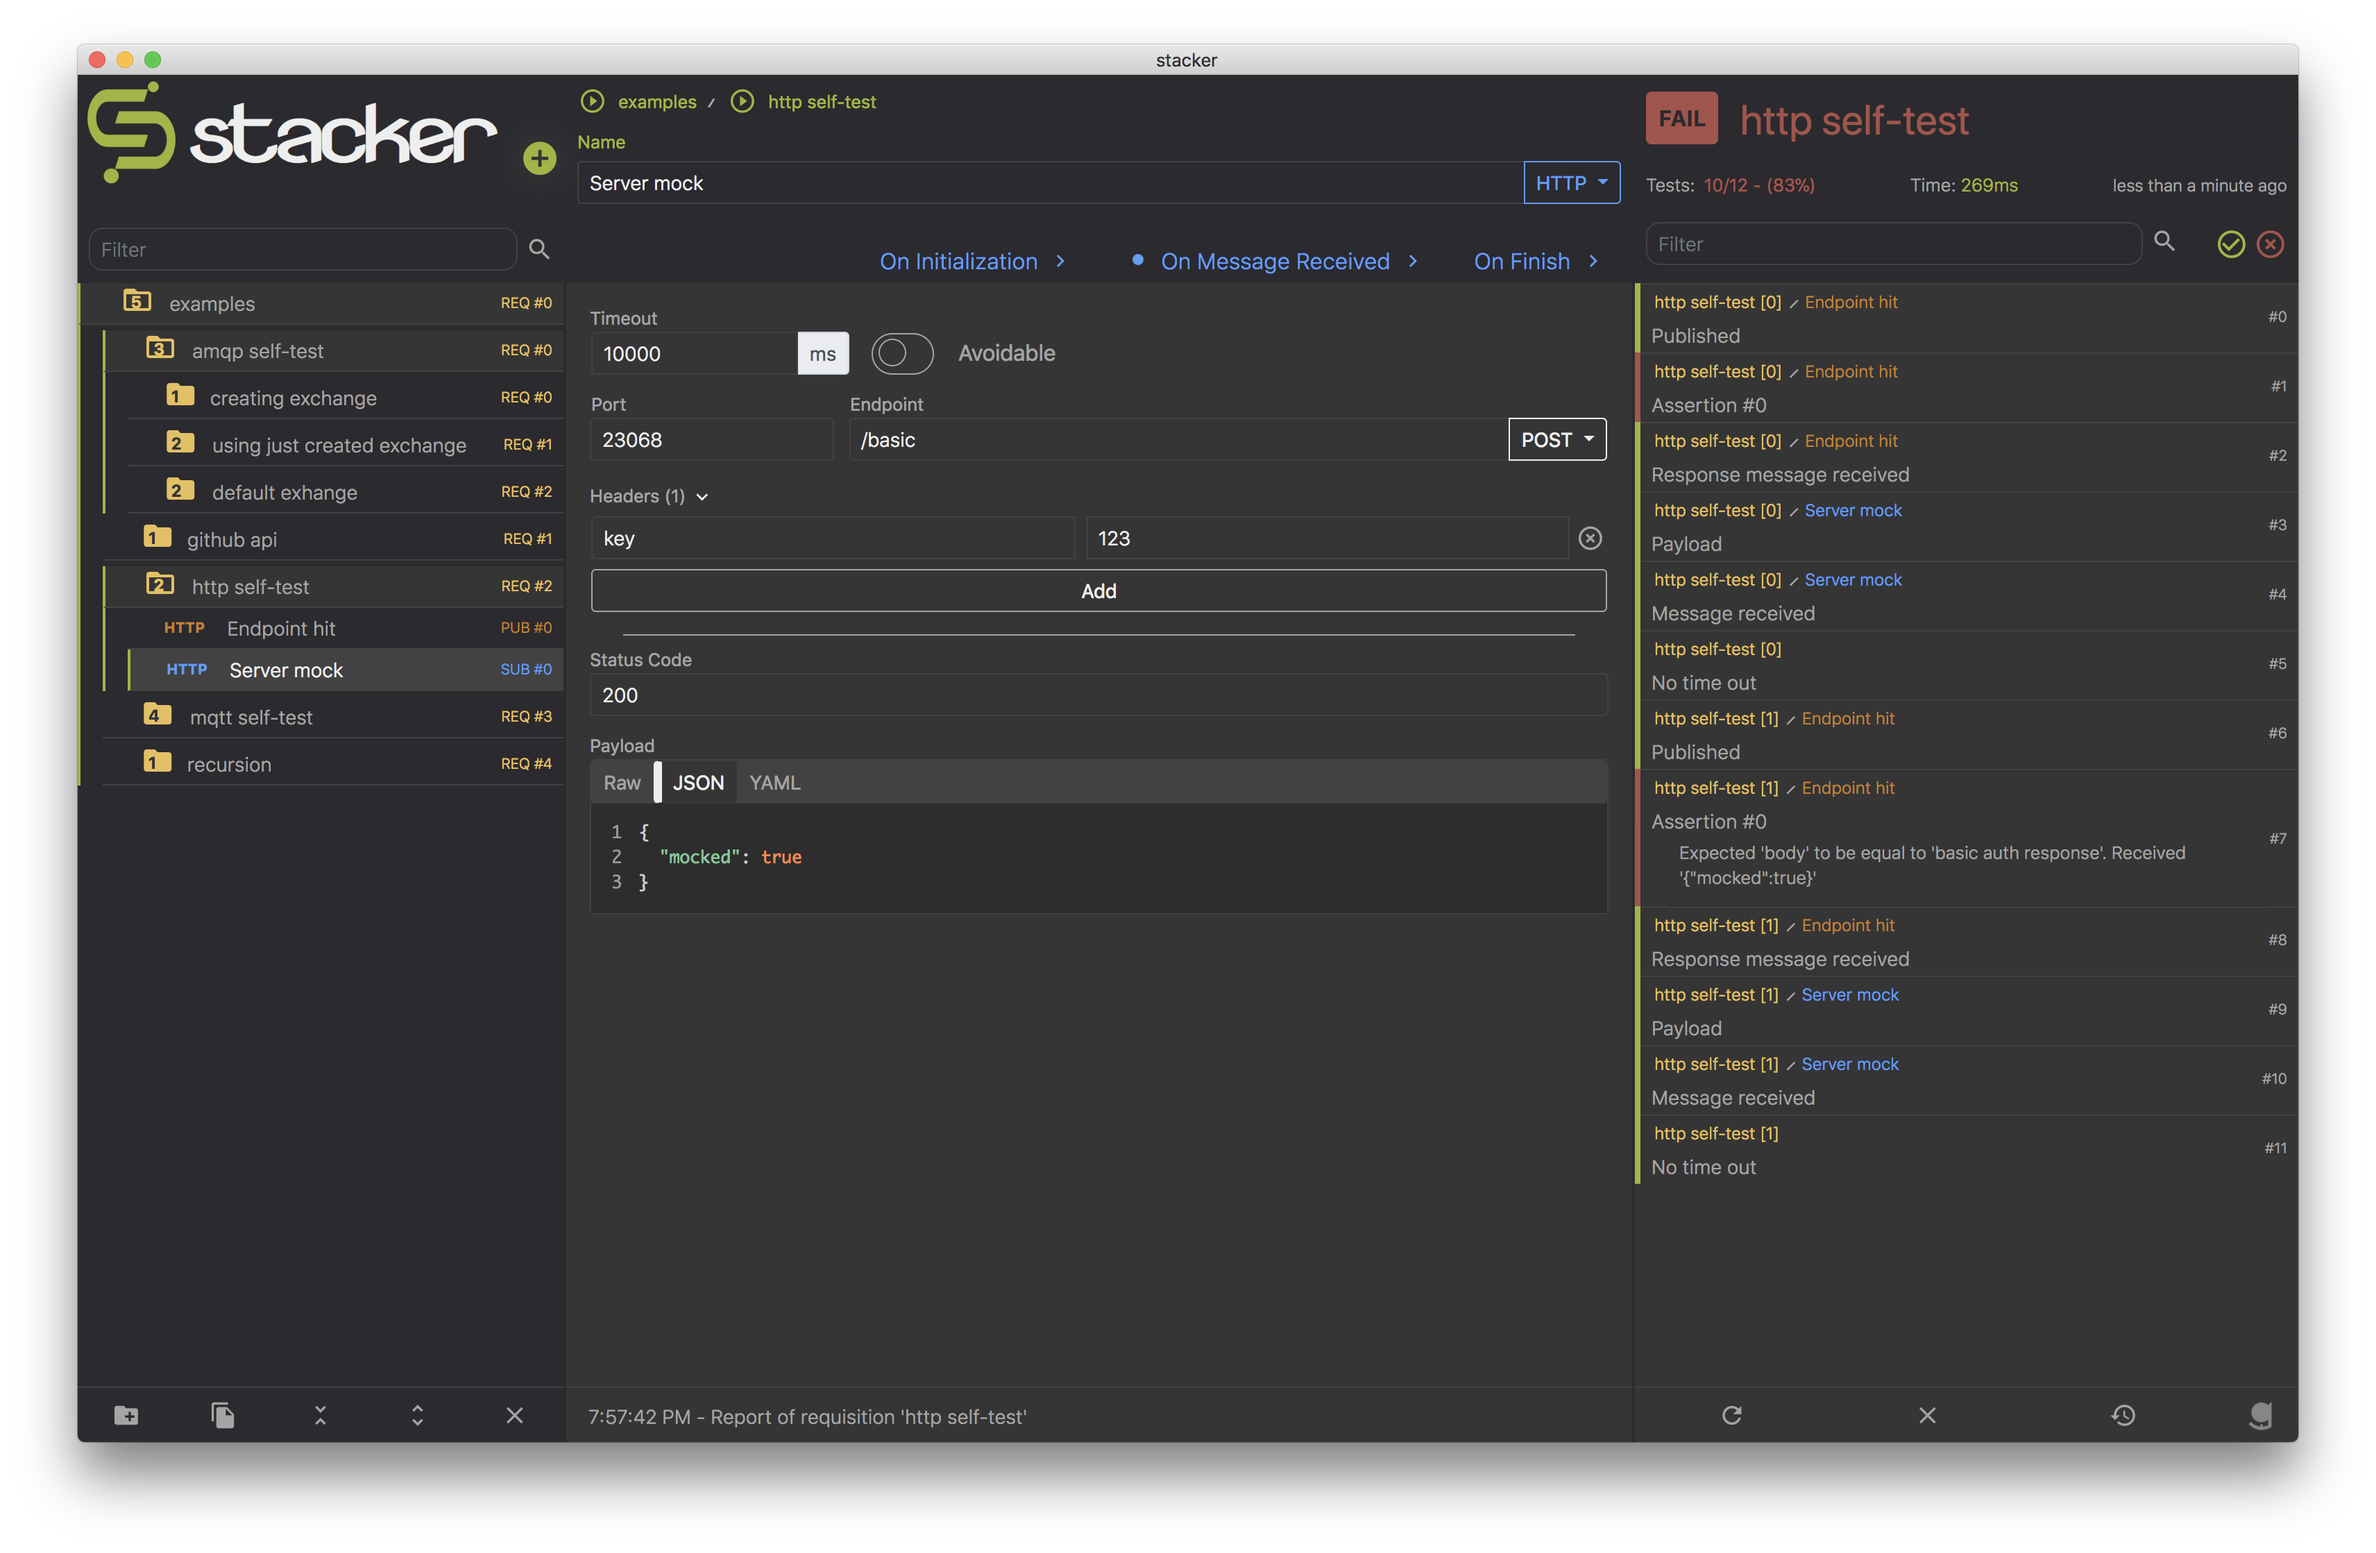
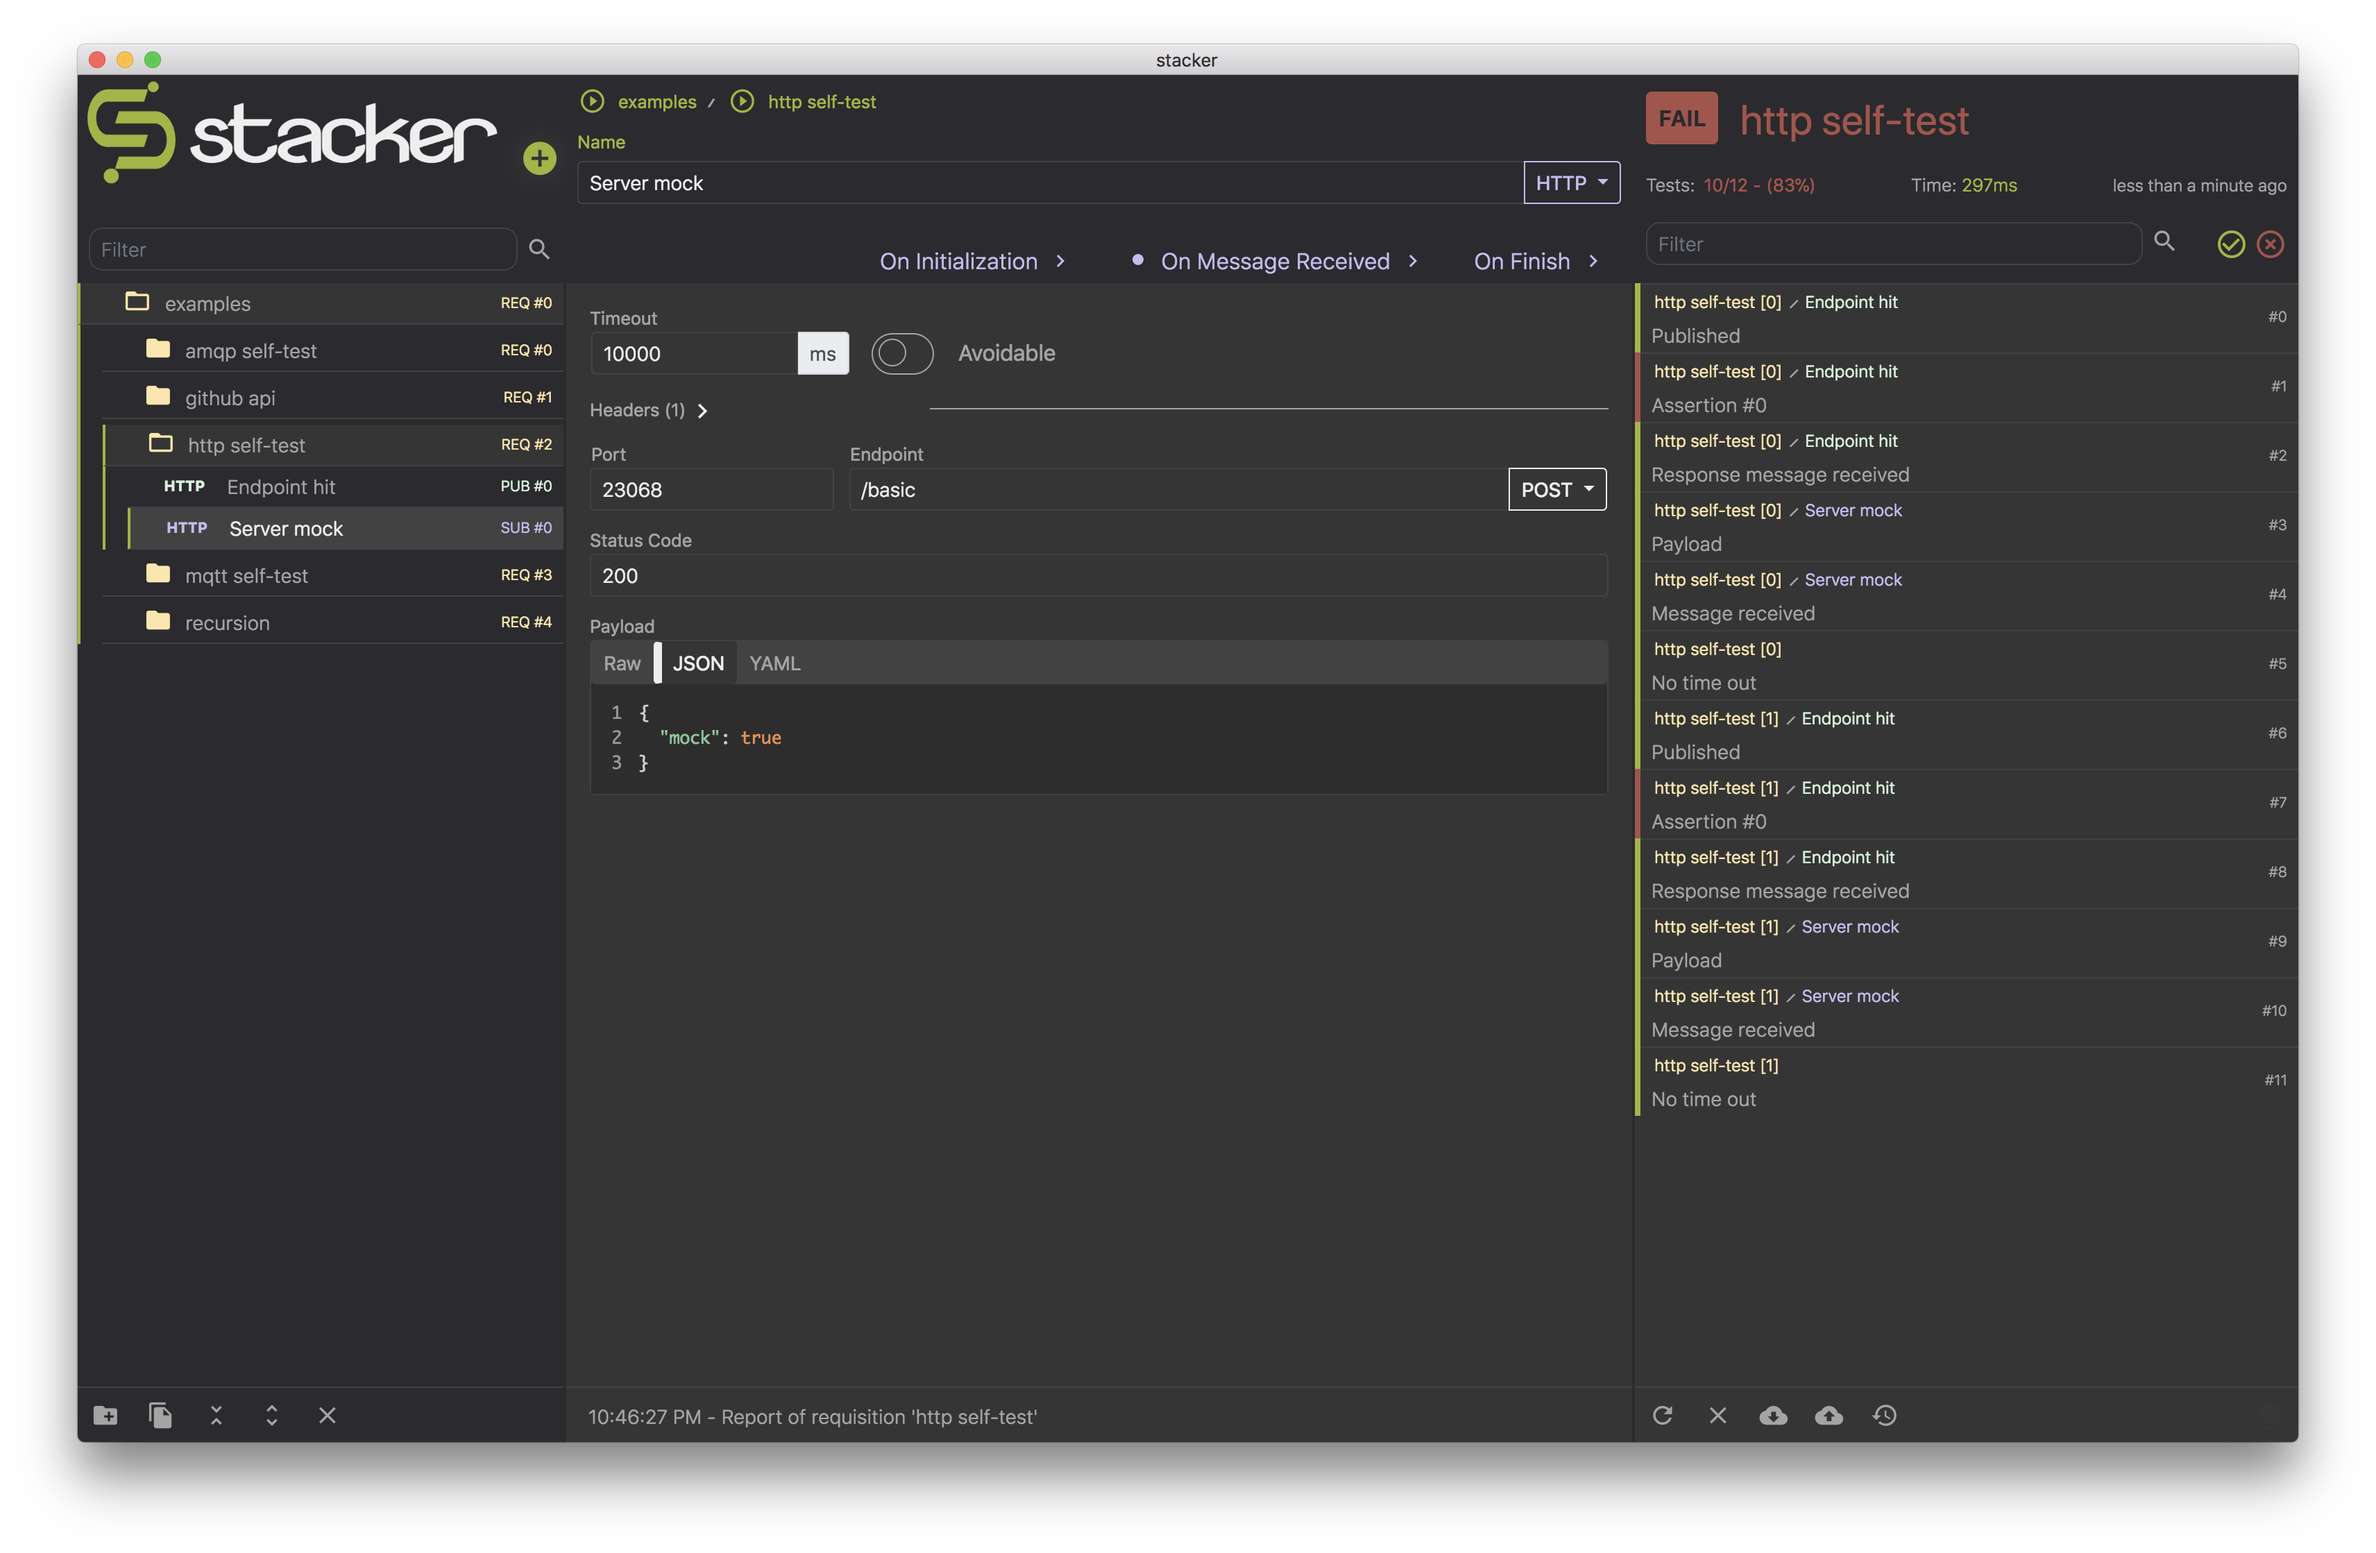
Changing theme colors

diff --git a/src/components/result/ResultFooter.vue b/src/components/result/ResultFooter.vue
@@ -10,9 +10,9 @@
                               :tooltip="action.tooltip"
                               @click="action.click(action, index)"></stacker-icon>
             </div>
-            <a class="col-1 ml-2" href="http://github.com/lopidio">
+            <div class="col-1 ml-2">
                 <img src="../../../docs/img/gui.png" class="img-fluid rounded gui-class">
-            </a>
+            </div>
         </div>
     </div>
 </template>
@@ -140,11 +140,16 @@
         width: 62%;
         height: auto;
         opacity: .01;
-        transition: all ease 2000ms;
+        transition: all ease 2500ms;
     }
 
     .gui-class:hover {
         opacity: 1;
         /*filter: blur(1px);*/
+    }
+
+    .gui-class:focus {
+        opacity: 1;
+        filter: blur(1px);
     }
 </style>

diff --git a/src/App.vue b/src/App.vue
@@ -131,9 +131,10 @@
 
 <style>
     :root {
-        --requisition-color: #e8bf57;
-        --publisher-color: #c88022;
-        --subscription-color: #589df6;
+        /*https://coolors.co/9fb630-ffe8af-c4bcf2-d4f2db-cef7a0*/
+        --requisition-color: #FFE6A7;
+        --publisher-color: #D4F2DB; /*#5e64c3; /*#6A8D73*/;
+        --subscription-color: #C4BCF2; /*c86ba6;*/
         /*--passing-test-color: #42ba84;*/
         --passing-test-color: #9FB630;
         --failing-test-color: #a9524a;
